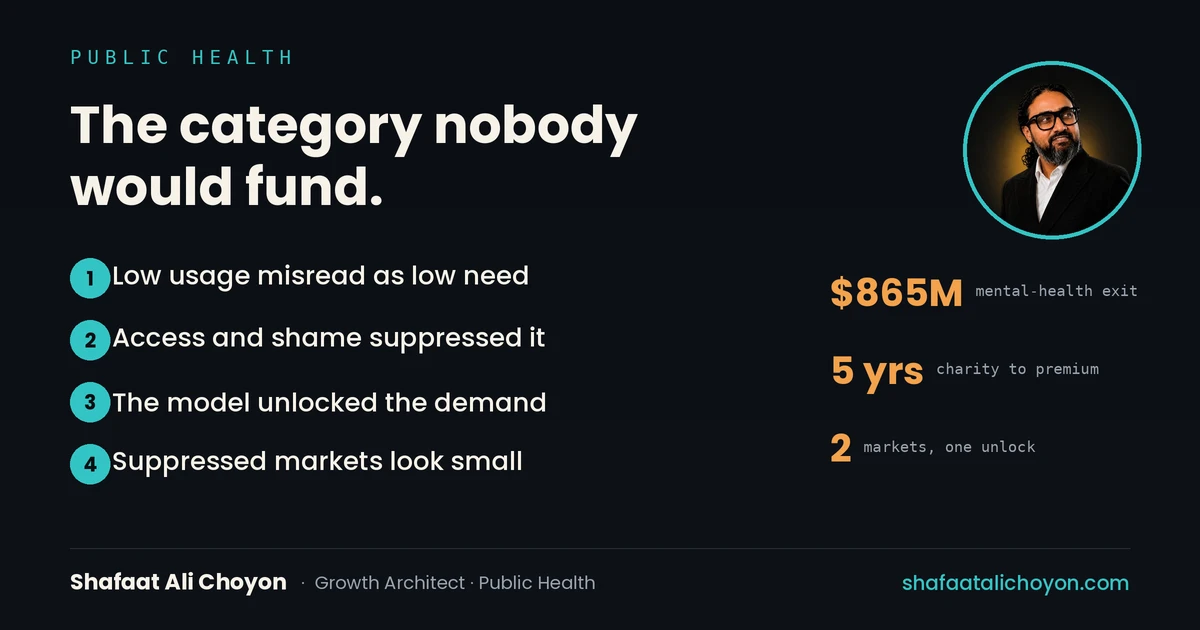
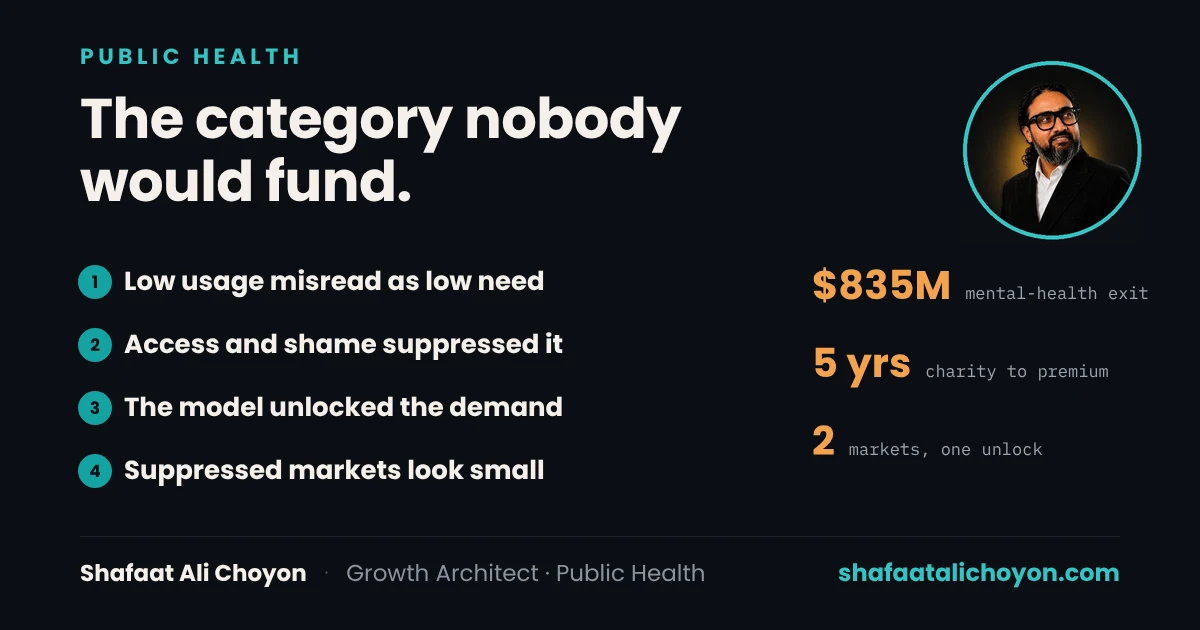
Correct Talkspace sale price to $835M (UHS 8-K) in mental-health essay, feeds and share cards
Claude-Session: https://claude.ai/code/session_01PHiPxyXvEgajkNqsmLpdvA

diff --git a/category-nobody-would-fund.html b/category-nobody-would-fund.html
@@ -5,7 +5,7 @@
 <script>(function(){try{var t=localStorage.getItem('shafaat_theme');if(t!=='light'&&t!=='dark'){t=(window.matchMedia&&window.matchMedia('(prefers-color-scheme: dark)').matches)?'dark':'light';}document.documentElement.setAttribute('data-theme',t);var m=document.querySelector('meta[name=theme-color]');if(m)m.setAttribute('content',t==='light'?'#FBF8F1':'#0B0F14');}catch(e){}})();</script>
 <meta name="viewport" content="width=device-width, initial-scale=1" />
 <title>How mental health became the premium category</title>
-<meta name="description" content="Investors once treated mental health as charity. In 2026 a mental-health app sold for $865M. The demand was always there: someone designed around the barrier." />
+<meta name="description" content="Investors once treated mental health as charity. In 2026 a mental-health app sold for $835M. The demand was always there: someone designed around the barrier." />
 <link rel="canonical" href="https://shafaatalichoyon.com/category-nobody-would-fund.html" />
 <meta name="author" content="Md Shafaat Ali Choyon" />
 <meta name="robots" content="index, follow, max-image-preview:large, max-snippet:-1" />
@@ -18,7 +18,7 @@
 <meta property="og:type" content="article" />
 <meta property="og:site_name" content="Md Shafaat Ali Choyon" />
 <meta property="og:title" content="How mental health became the premium category" />
-<meta property="og:description" content="Investors once treated mental health as charity. In 2026 a mental-health app sold for $865M. The demand was always there: someone designed around the barrier." />
+<meta property="og:description" content="Investors once treated mental health as charity. In 2026 a mental-health app sold for $835M. The demand was always there: someone designed around the barrier." />
 <meta property="og:url" content="https://shafaatalichoyon.com/category-nobody-would-fund.html" />
 <meta property="og:image" content="https://shafaatalichoyon.com/assets/og/category-nobody-would-fund.png" />
 <meta property="og:image:width" content="1200" />
@@ -28,7 +28,7 @@
 <meta property="article:section" content="Public Health" />
 <meta name="twitter:card" content="summary_large_image" />
 <meta name="twitter:title" content="How mental health became the premium category" />
-<meta name="twitter:description" content="Investors once treated mental health as charity. In 2026 a mental-health app sold for $865M. The demand was always there: someone designed around the barrier." />
+<meta name="twitter:description" content="Investors once treated mental health as charity. In 2026 a mental-health app sold for $835M. The demand was always there: someone designed around the barrier." />
 <meta name="twitter:image" content="https://shafaatalichoyon.com/assets/og/category-nobody-would-fund.png" />
 
 <script type="application/ld+json">
@@ -38,9 +38,9 @@
     {
       "@type": "Article",
       "headline": "How mental health became the premium category",
-      "description": "Investors once treated mental health as charity. In 2026 a mental-health app sold for $865M. The demand was always there: someone designed around the barrier.",
+      "description": "Investors once treated mental health as charity. In 2026 a mental-health app sold for $835M. The demand was always there: someone designed around the barrier.",
       "datePublished": "2026-08-03",
-      "dateModified": "2026-08-03",
+      "dateModified": "2026-10-20",
       "inLanguage": "en",
       "mainEntityOfPage": { "@type": "WebPage", "@id": "https://shafaatalichoyon.com/category-nobody-would-fund.html" },
       "image": "https://shafaatalichoyon.com/assets/og/category-nobody-would-fund.png",
@@ -57,7 +57,7 @@
         { "@type": "ListItem", "position": 3, "name": "How mental health became the premium category", "item": "https://shafaatalichoyon.com/category-nobody-would-fund.html" }
       ]
     },
-    {"@type":"FAQPage","mainEntity":[{"@type":"Question","name":"Why did investors used to treat mental health as uninvestable?","acceptedAnswer":{"@type":"Answer","text":"Investors mistook low usage for low need. Mental health was treated as a charity line item, worthy but unprofitable, because the real suppressor was access and shame, the waiting list, the cost, and the fear of being seen walking into a therapist's office, not an absence of demand."}},{"@type":"Question","name":"What changed to make mental health a premium category?","acceptedAnswer":{"@type":"Answer","text":"Not new clinical science, distribution and design. Anonymous, direct-to-consumer, low-friction access on a phone removed the shame of the front desk, and in 2026 a mental-health platform sold for roughly $865 million, proof that the demand had been there all along."}},{"@type":"Question","name":"Why is the mental-health opportunity in Bangladesh larger than in the US?","acceptedAnswer":{"@type":"Answer","text":"Bangladesh has a severe shortage of mental-health professionals, near-zero psychiatrists per capita, and stigma even heavier than the West's, while the same anonymous, mobile-first, low-shame unlock that created an $865M US category is almost entirely unbuilt there. It's a larger, later opportunity, not a smaller version of the US one."}}]}
+    {"@type":"FAQPage","mainEntity":[{"@type":"Question","name":"Why did investors used to treat mental health as uninvestable?","acceptedAnswer":{"@type":"Answer","text":"Investors mistook low usage for low need. Mental health was treated as a charity line item, worthy but unprofitable, because the real suppressor was access and shame, the waiting list, the cost, and the fear of being seen walking into a therapist's office, not an absence of demand."}},{"@type":"Question","name":"What changed to make mental health a premium category?","acceptedAnswer":{"@type":"Answer","text":"Not new clinical science, distribution and design. Anonymous, direct-to-consumer, low-friction access on a phone removed the shame of the front desk, and in 2026 a mental-health platform sold for roughly $835 million, proof that the demand had been there all along."}},{"@type":"Question","name":"Why is the mental-health opportunity in Bangladesh larger than in the US?","acceptedAnswer":{"@type":"Answer","text":"Bangladesh has a severe shortage of mental-health professionals, near-zero psychiatrists per capita, and stigma even heavier than the West's, while the same anonymous, mobile-first, low-shame unlock that created an $835M US category is almost entirely unbuilt there. It's a larger, later opportunity, not a smaller version of the US one."}}]}
   ]
 }
 </script>
@@ -202,7 +202,7 @@
   <p class="byline">By <b>Md Shafaat Ali Choyon</b> <span class="creds">MPH · CHES® · MBA · MCIM</span> · builds &amp; runs AI in production · Growth &amp; health strategist · 6 min read · <time datetime="2026-08-03">Aug 3, 2026</time></p>
 
   <article>
-    <p class="lede">Five years ago, investors treated mental health as a charity line item, worthy, unprofitable, someone else's job. In 2026, a mental-health platform sold for roughly <b>$865 million</b><sup class="cref"><a href="#src-1">1</a></sup>. The demand didn't suddenly appear. It was always there. What changed is that someone finally designed around the thing that had been keeping people away.</p>
+    <p class="lede">Five years ago, investors treated mental health as a charity line item, worthy, unprofitable, someone else's job. In 2026, a mental-health platform sold for roughly <b>$835 million</b><sup class="cref"><a href="#src-1">1</a></sup>. The demand didn't suddenly appear. It was always there. What changed is that someone finally designed around the thing that had been keeping people away.</p>
 
       <figure class="essay-fig">
         <img src="/assets/og/category-nobody-would-fund.webp" alt="The category nobody would fund, mental health became the premium; demand was always there, the model unlocked it." loading="lazy" id="ogfig">
@@ -221,7 +221,7 @@
 
     <h2>The dual-market gap is enormous</h2>
 
-    <p>If mental health commands an $865M premium in the well-served US, consider Bangladesh, with a severe shortage of mental-health professionals, near-zero psychiatrists per capita, and stigma even heavier than the West's. The unmet need is staggering, and the exact same unlock, anonymous, mobile-first, low-shame access, is almost entirely unbuilt. It's not a smaller version of the US opportunity. It's a larger, later one.</p>
+    <p>If mental health commands an $835M premium in the well-served US, consider Bangladesh, with a severe shortage of mental-health professionals, near-zero psychiatrists per capita, and stigma even heavier than the West's. The unmet need is staggering, and the exact same unlock, anonymous, mobile-first, low-shame access, is almost entirely unbuilt. It's not a smaller version of the US opportunity. It's a larger, later one.</p>
 
     <h2>The lesson generalizes past mental health</h2>
 
@@ -233,7 +233,7 @@
       <li>Low usage was misread as low need; mental-health demand was always there, just suppressed.</li>
       <li>Access and shame were the barrier; anonymous, DTC, low-friction design removed it.</li>
       <li>A "small" market is often a suppressed one, demand throttled by a fixable design barrier.</li>
-      <li>The $865M US premium implies a larger, unbuilt opportunity in places like Bangladesh.</li>
+      <li>The $835M US premium implies a larger, unbuilt opportunity in places like Bangladesh.</li>
     </ul>
 
     <p><b>What market in your world looks 'too small to bother with', and is that real, or just demand nobody has made safe to express?</b></p>
@@ -245,11 +245,11 @@
       </div>
       <div class="faq-item">
         <h3>What changed to make mental health a premium category?</h3>
-        <p>Not new clinical science, distribution and design. Anonymous, direct-to-consumer, low-friction access on a phone removed the shame of the front desk, and in 2026 a mental-health platform sold for roughly $865 million, proof that the demand had been there all along.</p>
+        <p>Not new clinical science, distribution and design. Anonymous, direct-to-consumer, low-friction access on a phone removed the shame of the front desk, and in 2026 a mental-health platform sold for roughly $835 million, proof that the demand had been there all along.</p>
       </div>
       <div class="faq-item">
         <h3>Why is the mental-health opportunity in Bangladesh larger than in the US?</h3>
-        <p>Bangladesh has a severe shortage of mental-health professionals, near-zero psychiatrists per capita, and stigma even heavier than the West's, while the same anonymous, mobile-first, low-shame unlock that created an $865M US category is almost entirely unbuilt there. It's a larger, later opportunity, not a smaller version of the US one.</p>
+        <p>Bangladesh has a severe shortage of mental-health professionals, near-zero psychiatrists per capita, and stigma even heavier than the West's, while the same anonymous, mobile-first, low-shame unlock that created an $835M US category is almost entirely unbuilt there. It's a larger, later opportunity, not a smaller version of the US one.</p>
       </div>
     </section>
 

diff --git a/essays.html b/essays.html
@@ -1225,12 +1225,12 @@
       </div>
     </a>
 
-    <a class="ecard" href="/category-nobody-would-fund.html" data-lens="public-health" data-date="2026-08-03" data-search="category nobody would fund mental health premium talkspace 865m demand suppression stigma access bangladesh psychiatrists design barrier">
+    <a class="ecard" href="/category-nobody-would-fund.html" data-lens="public-health" data-date="2026-08-03" data-search="category nobody would fund mental health premium talkspace 835m demand suppression stigma access bangladesh psychiatrists design barrier">
       <div class="ethumb"><img src="/assets/og/category-nobody-would-fund.webp" alt="How mental health became the premium category" loading="lazy" width="1200" height="630"></div>
       <div class="ebody">
         <span class="elens">Public Health</span>
         <h3>How mental health became the premium category</h3>
-        <p class="edek">Investors once treated mental health as charity. In 2026 a mental-health app sold for $865M. The demand was always there: someone designed around the barrier.</p>
+        <p class="edek">Investors once treated mental health as charity. In 2026 a mental-health app sold for $835M. The demand was always there: someone designed around the barrier.</p>
         <span class="edate">Aug 3, 2026</span>
       </div>
     </a>
